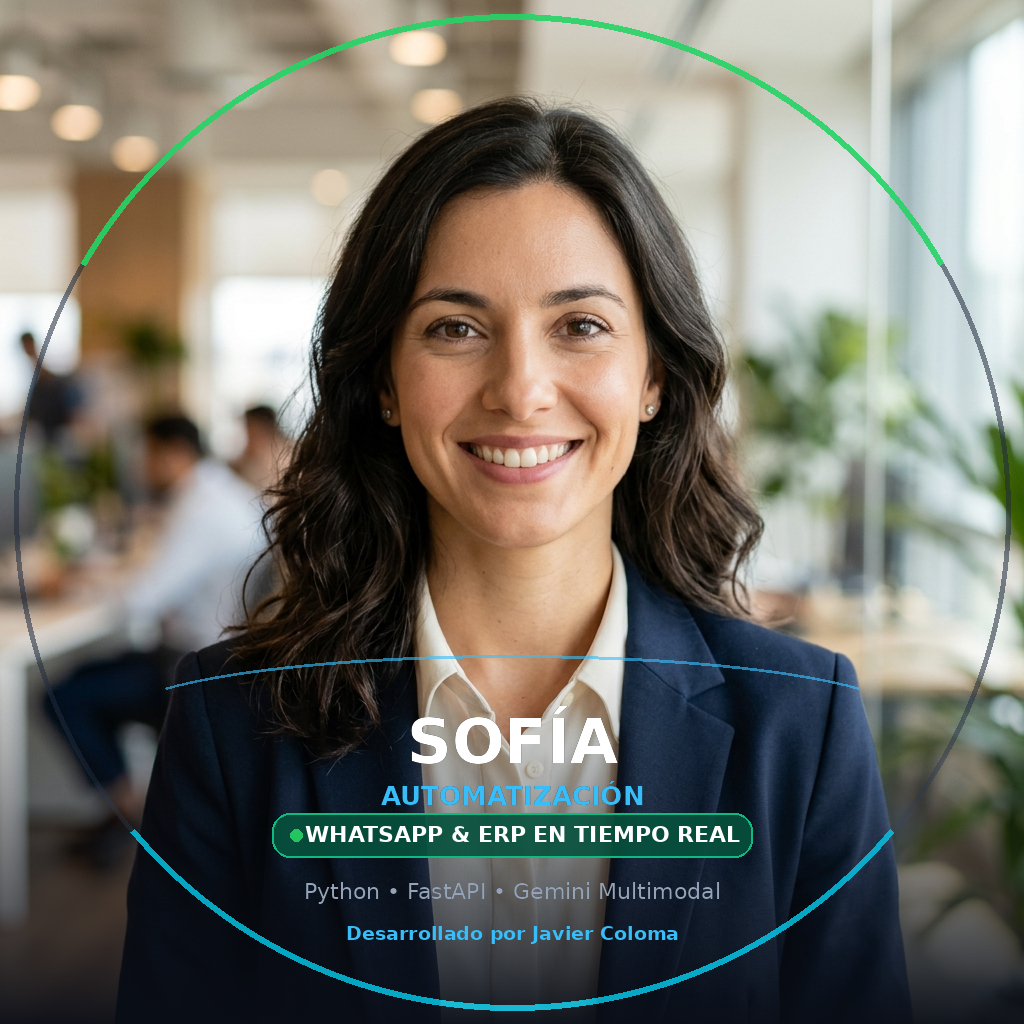
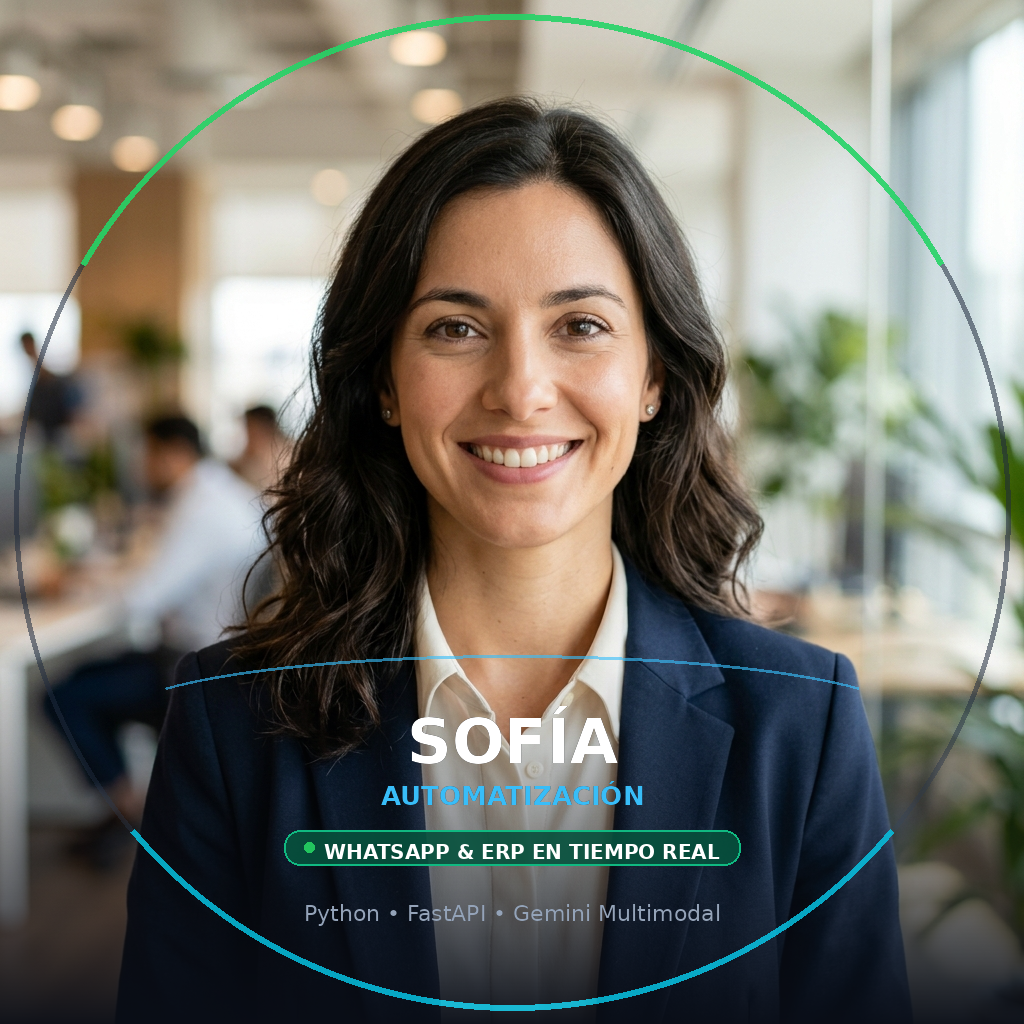
fix(branding): fix dot alignment on badge, remove author text, optimize contrast

Changed region(s): [[0.25, 0.7812, 0.75, 0.9375]]

diff --git a/assets/generate_logo.py b/assets/generate_logo.py
@@ -77,38 +77,43 @@ def create_detailed_sofia_logo(output_path="assets/sofia_agency_logo.jpg", size=
     draw.ellipse([cx - 8, cy + 82, cx + 8, cy + 98], fill="#25d366")
     draw.line([cx + 25, cy + 90, cx + 180, cy + 90], fill="#334155", width=2)
 
-    # 4. KEY BADGE: INTEGRACIÓN WHATSAPP & ERP
-    badge_w, badge_h = 320, 36
-    badge_y = cy + 145
+    # 4. KEY BADGE: WHATSAPP & ERP EN TIEMPO REAL
+    badge_y = cy + 150
+    text_va = "WHATSAPP & ERP EN TIEMPO REAL"
+    try:
+        font_feature = ImageFont.truetype("/usr/share/fonts/truetype/dejavu/DejaVuSans-Bold.ttf", 28)
+    except Exception:
+        font_feature = font_sub
+
+    bbox_va = draw.textbbox((0, 0), text_va, font=font_feature)
+    w_va = bbox_va[2] - bbox_va[0]
+    h_va = bbox_va[3] - bbox_va[1]
+
+    dot_size = 14
+    dot_gap = 14
+    content_w = dot_size + dot_gap + w_va
+    start_x = cx - (content_w // 2)
+
+    pad_x = 26
+    pad_y = 14
     draw.rounded_rectangle(
-        [cx - badge_w, badge_y - badge_h, cx + badge_w, badge_y + badge_h],
-        radius=25,
+        [start_x - pad_x, badge_y - pad_y, start_x + content_w + pad_x, badge_y + h_va + pad_y],
+        radius=22,
         fill="#064e3b",
         outline="#10b981",
         width=3
     )
-    # Live dot
-    draw.ellipse([cx - badge_w + 35, badge_y - 10, cx - badge_w + 55, badge_y + 10], fill="#22c55e")
-    text_va = "WHATSAPP & ERP EN TIEMPO REAL"
-    bbox_va = draw.textbbox((0, 0), text_va, font=font_feature)
-    w_va = bbox_va[2] - bbox_va[0]
-    draw.text((cx - w_va // 2 + 15, badge_y - 20), text_va, fill="#ffffff", font=font_feature)
+    # Green live dot (completely separated to the left)
+    dot_y = badge_y + (h_va - dot_size) // 2
+    draw.ellipse([start_x, dot_y, start_x + dot_size, dot_y + dot_size], fill="#22c55e")
+    # Crisp white text safely to the right of the dot
+    draw.text((start_x + dot_size + dot_gap, badge_y), text_va, fill="#ffffff", font=font_feature)
 
-    # 5. BENEFIT LINE: Python • FastAPI • Gemini LLM
+    # 5. BENEFIT LINE: Python • FastAPI • Gemini Multimodal
     text_auto = "Python • FastAPI • Gemini Multimodal"
     bbox_au = draw.textbbox((0, 0), text_auto, font=font_sub)
     w_au = bbox_au[2] - bbox_au[0]
-    draw.text((cx - w_au // 2, cy + 245), text_auto, fill="#94a3b8", font=font_sub)
-
-    # 6. AUTHOR / ARCHITECTURE FOOTER
-    text_loc = "Desarrollado por Javier Coloma"
-    try:
-        font_loc = ImageFont.truetype("/usr/share/fonts/truetype/dejavu/DejaVuSans-Bold.ttf", 25)
-    except Exception:
-        font_loc = font_sub
-    bbox_loc = draw.textbbox((0, 0), text_loc, font=font_loc)
-    w_loc = bbox_loc[2] - bbox_loc[0]
-    draw.text((cx - w_loc // 2, cy + 320), text_loc, fill="#38bdf8", font=font_loc)
+    draw.text((cx - w_au // 2, cy + 250), text_auto, fill="#94a3b8", font=font_sub)
 
     # Save PNG and JPG
     img.save(output_path, "JPEG", quality=95)

diff --git a/assets/generate_combined_profile.py b/assets/generate_combined_profile.py
@@ -50,34 +50,43 @@ def generate_combined_profile(
     ws = bbox_sub[2] - bbox_sub[0]
     draw.text((cx - ws // 2, 780), text_sub, fill=(56, 189, 248, 255), font=font_agency)
 
-    # 5. Pill Badge: ● WHATSAPP & ERP EN TIEMPO REAL (y = 835)
-    badge_w, badge_h = 240, 22
-    by = 835
+    # 5. Pill Badge: ● WHATSAPP & ERP EN TIEMPO REAL (y = 840)
+    by = 840
+    text_badge = "WHATSAPP & ERP EN TIEMPO REAL"
+    try:
+        font_badge = ImageFont.truetype("/usr/share/fonts/truetype/dejavu/DejaVuSans-Bold.ttf", 20)
+    except Exception:
+        font_badge = font_auto
+
+    bbox_b = draw.textbbox((0, 0), text_badge, font=font_badge)
+    wb = bbox_b[2] - bbox_b[0]
+    hb = bbox_b[3] - bbox_b[1]
+
+    dot_s = 10
+    d_gap = 10
+    total_w = dot_s + d_gap + wb
+    sx = cx - (total_w // 2)
+
+    pad_px = 20
+    pad_py = 10
     draw.rounded_rectangle(
-        [cx - badge_w, by - badge_h, cx + badge_w, by + badge_h],
-        radius=18,
+        [sx - pad_px, by - pad_py, sx + total_w + pad_px, by + hb + pad_py],
+        radius=16,
         fill=(6, 78, 59, 240),
         outline=(16, 185, 129, 255),
         width=2
     )
-    # Green pulsing dot
-    draw.ellipse([cx - badge_w + 18, by - 6, cx - badge_w + 30, by + 6], fill=(34, 197, 94, 255))
-    text_badge = "WHATSAPP & ERP EN TIEMPO REAL"
-    bbox_b = draw.textbbox((0, 0), text_badge, font=font_badge)
-    wb = bbox_b[2] - bbox_b[0]
-    draw.text((cx - wb // 2 + 10, by - 14), text_badge, fill=(255, 255, 255, 255), font=font_badge)
+    # Green pulsing dot completely separated
+    dot_top = by + (hb - dot_s) // 2
+    draw.ellipse([sx, dot_top, sx + dot_s, dot_top + dot_s], fill=(34, 197, 94, 255))
+    # Crisp white text cleanly offset to the right
+    draw.text((sx + dot_s + d_gap, by), text_badge, fill=(255, 255, 255, 255), font=font_badge)
 
-    # 6. Benefit line: Python • FastAPI • Gemini LLM (y = 880)
+    # 6. Benefit line: Python • FastAPI • Gemini Multimodal (y = 900)
     text_auto = "Python • FastAPI • Gemini Multimodal"
     bbox_au = draw.textbbox((0, 0), text_auto, font=font_auto)
     w_au = bbox_au[2] - bbox_au[0]
-    draw.text((cx - w_au // 2, 878), text_auto, fill=(148, 163, 184, 255), font=font_auto)
-
-    # 7. Author Anchor: Desarrollado por Javier Coloma (y = 925)
-    text_loc = "Desarrollado por Javier Coloma"
-    bbox_loc = draw.textbbox((0, 0), text_loc, font=font_loc)
-    w_loc = bbox_loc[2] - bbox_loc[0]
-    draw.text((cx - w_loc // 2, 922), text_loc, fill=(56, 189, 248, 255), font=font_loc)
+    draw.text((cx - w_au // 2, 900), text_auto, fill=(148, 163, 184, 255), font=font_auto)
 
     # 8. Circular border accents (fits WhatsApp circle crop of radius 512)
     draw.arc([14, 14, w - 14, h - 14], start=0, end=360, fill=(30, 41, 59, 140), width=5)
